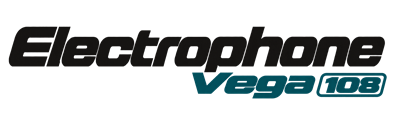
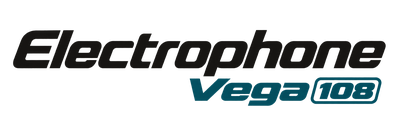
style(brand): apply selected Electrophone lockup
(cherry picked from commit 4fa7342af9d4b790fdb53a786c4b5003aca53373)

Changed region(s): [[0.0, 0.1818, 1.0, 0.8182]]

diff --git a/docs/tasks/task-0097.md b/docs/tasks/task-0097.md
@@ -1,0 +1,13 @@
+---
+task_id: task-0097
+title: Apply the selected Electrophone Vega 108 lockup on web and iOS
+concern: "C2 - Server, library and web UI"
+status: done
+done_date: 2026-10-23
+source: chat 2026-10-23 (Alex)
+tags: [brand, web, ios]
+---
+
+# Apply the selected Electrophone Vega 108 lockup on web and iOS
+
+Use the selected first lockup variant consistently in the web sidebar and iOS drawer. Preserve the complete lower edge and the `p` descender, and keep the brand master and platform assets synchronized. The web sidebar retains the vinyl-only mark in its narrow and collapsed layouts.

diff --git a/docs/tasks/C2.md b/docs/tasks/C2.md
@@ -6,6 +6,7 @@ task).
 
 ## Done
 
+- ✅ [task-0094](task-0097.md) — Apply the selected Electrophone Vega 108 lockup on web and iOS
 - ✅ task-0055 — Genre parents are equal (server and web deployed; iOS and Mac out of scope)
 - ✅ task-0006 — P1: catalog data model, audio state and catalog sync API
 - ✅ task-0017 — Deploy the YouTube title cut to the live server
